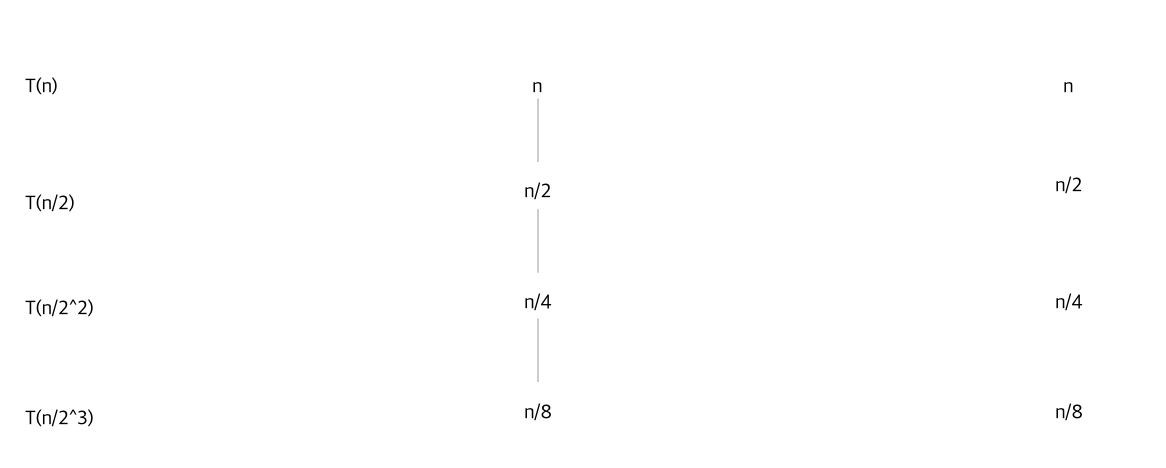
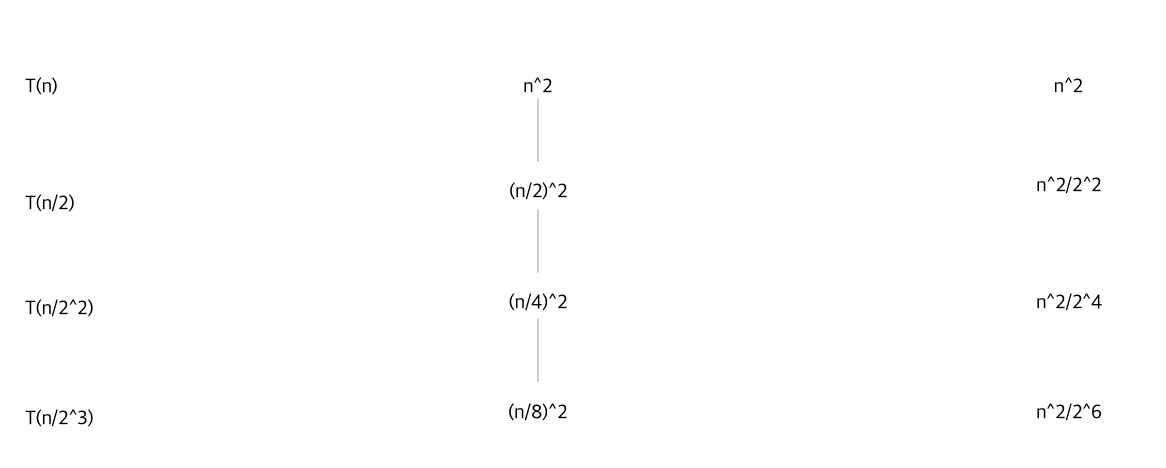
feat: Add solution ‘Question 9, worksheet 0 Solution, CSC 373’

diff --git a/csc373/week_1/worksheet_0_solution.tex b/csc373/week_1/worksheet_0_solution.tex
@@ -718,15 +718,15 @@
         \item Finding the upper bound of $T(n)$
 
         \begin{align}
-            T(n) &= n \cdot \sum\limits_{i=0}^{\lg n - 1} \frac{1}{2^i} + \Theta(1)\\
-            &= n \cdot \sum\limits_{i=0}^{\infty} \frac{1}{2^i} + \Theta(1) & [\text{since $n$ is asympt. large}]\\
-            &= n \cdot \Bigl ( \frac{1}{1 - \frac{1}{2}} \Bigr) + \Theta(1)\\
-            &= 2n + \Theta(1)\\
+            T(n) &= n^2 \cdot \sum\limits_{i=0}^{\lg n - 1} \frac{1}{2^{2i}} + \Theta(1)\\
+            &= n^2 \cdot \sum\limits_{i=0}^{\infty} \frac{1}{2^{2i}} + \Theta(1) & [\text{since $n$ is asympt. large}]\\
+            &= n^2 \cdot \Bigl ( \frac{1}{1 - \frac{1}{4}} \Bigr) + \Theta(1)\\
+            &= \frac{4n^2}{3} + \Theta(1)
         \end{align}
 
         \bigskip
 
-        Thus, we we can conclude $T(n) = \mathcal{O}(n)$
+        Thus, we we can conclude $T(n) = \mathcal{O}(n^2)$
 
         \bigskip
 
@@ -735,7 +735,27 @@
 
         \bigskip
 
-        \underline{Guess:} $T(n) \leq $
+        \underline{Guess:} $T(n) \leq cn^2$
+
+        \bigskip
+
+        I need to show the guess holds for the recurrence $T(n) = T(\frac{n}{2}) + n$.
+
+        \bigskip
+
+        And, indeed we have
+
+        \begin{align}
+            T(n) &= T(\frac{n}{2}) + n^2\\
+            &\leq \frac{cn^2}{4} + n^2\\
+            &=  (\frac{c}{4} + 1) \cdot n^2\\
+            &\leq cn^2
+        \end{align}
+
+        \bigskip
+
+        THe boundary holds when $c \geq \frac{4}{3}$.
+
 
 
     \end{enumerate}
